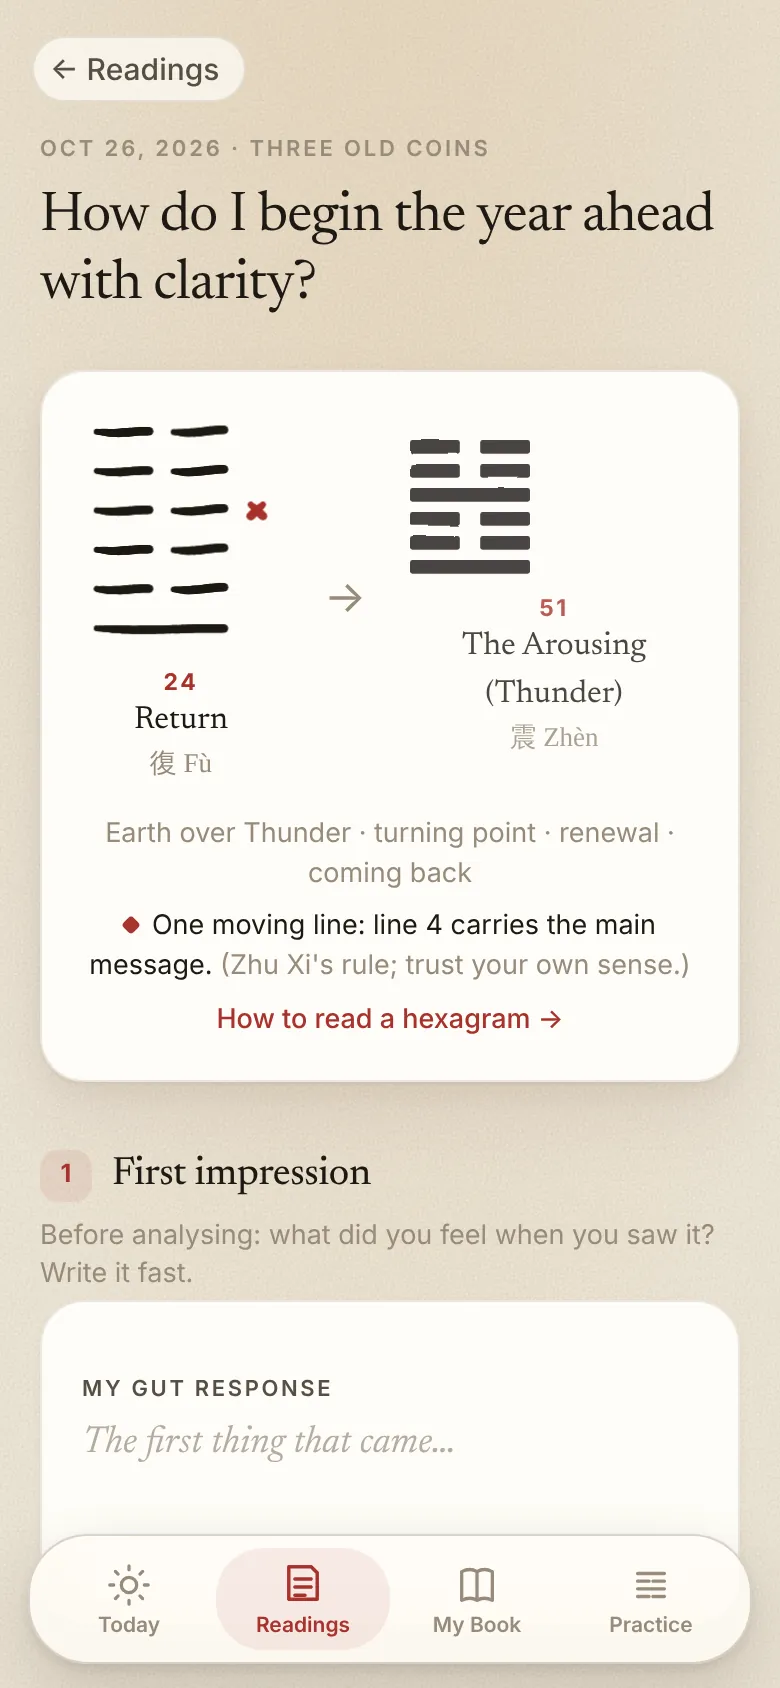
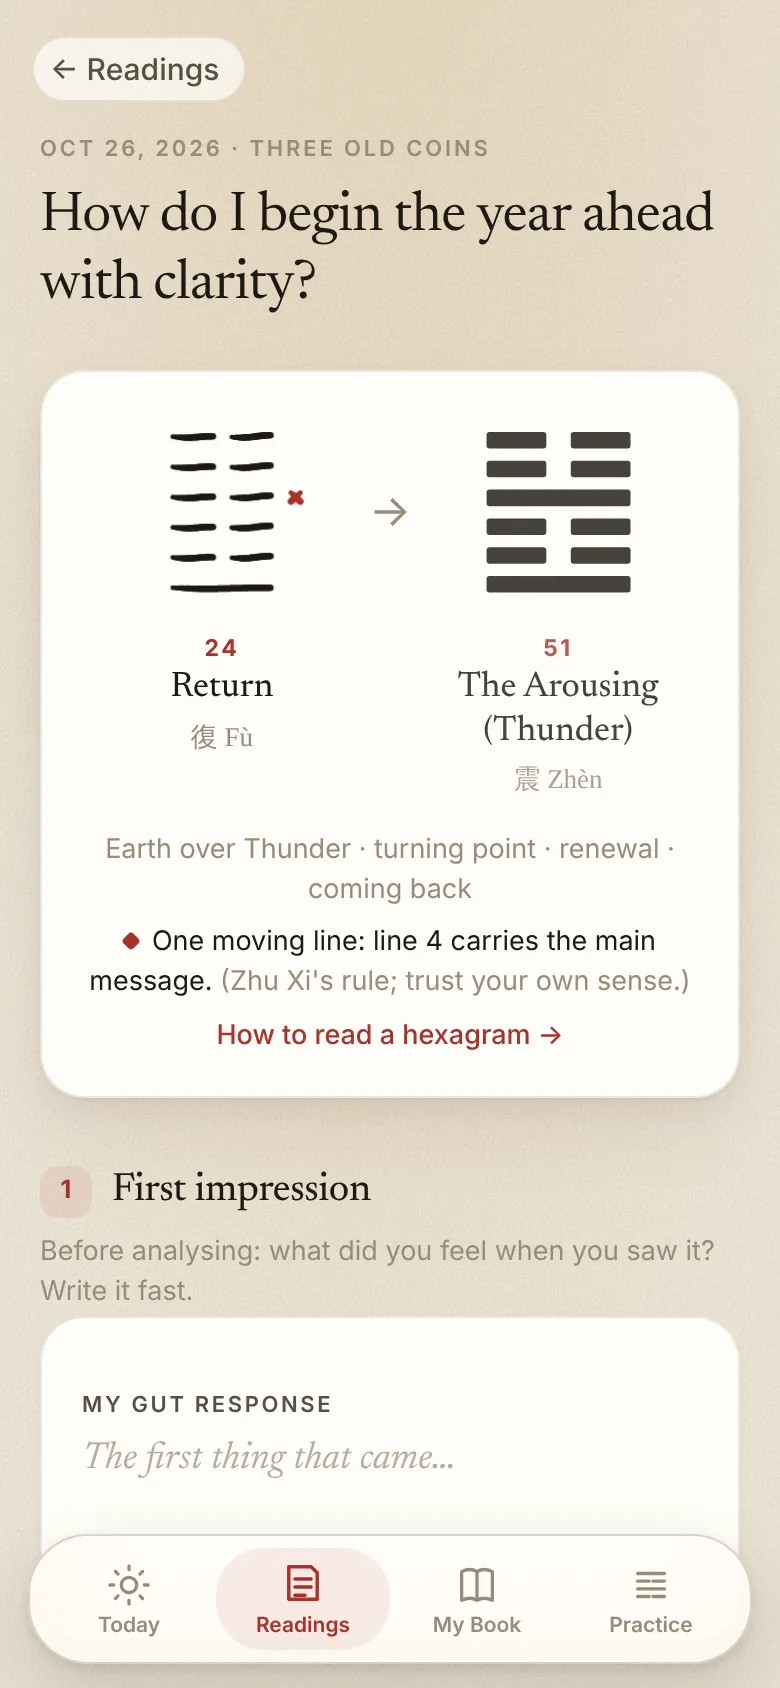
My I Ching: align the reading's figure pair
Present and relating figures now sit in matched 100px boxes in two equal
columns, so both are the same height on the same centre line and their
number/name/Chinese labels start level. Hand-drawn figures are cropped to
the drawn lines and centred on them (margin marks no longer shift them).
Printed figures in the pair drop the brush filter that notched the bars.
Install screenshots refreshed. Version 7.

Claude-Session: https://claude.ai/code/session_01NVqxEtVDYQWcTY4XnBQXzB

Changed region(s): [[0.0308, 0.2464, 0.9538, 0.8934], [0.1231, 0.2464, 0.4, 0.4621], [0.4308, 0.3389, 0.4615, 0.3697]]

diff --git a/apps/i-ching-book/index.html b/apps/i-ching-book/index.html
@@ -262,6 +262,12 @@
              color: var(--seal); font: 700 12.5px var(--sans); margin-right: 10px; flex: none; }
     .sechead { display: flex; align-items: center; margin: 34px 0 8px; }
     .arrow { font-size: 22px; color: var(--muted); }
+    .pair { display: grid; grid-template-columns: minmax(0, 1fr) 28px minmax(0, 1fr); align-items: start; }
+    .pair.single { grid-template-columns: minmax(0, 1fr); }
+    .pfig { display: flex; flex-direction: column; align-items: center; text-align: center; text-decoration: none; gap: 3px; }
+    .pfig .fbox, .pair .arrow { height: 100px; display: flex; align-items: center; justify-content: center; }
+    .pfig .fbox { margin-bottom: 8px; }
+    .pfig .pname { font: 450 18px/1.2 var(--serif); text-wrap: balance; }
     .empty { text-align: center; padding: 44px 20px; }
     .empty .hex { margin: 0 auto 16px; color: var(--line2); }
 
@@ -481,7 +487,7 @@
 
   /* ---------- Storage (on this device only) ---------- */
   // Shown at the bottom of Today and Settings. Keep in step with VERSION in sw.js.
-  const APP_VERSION = "6", APP_DATE = "26 Oct 2026";
+  const APP_VERSION = "7", APP_DATE = "26 Oct 2026";
   const versionTag = () => `<p class="center small muted" style="margin-top:22px;opacity:.75">My I Ching · version ${APP_VERSION} · ${APP_DATE}</p>`;
   const KEY = "my-i-ching-v1";
   const fresh = () => ({ v: 1, book: { title: "My Book of Changes", author: "", preface: "", ch: {} }, readings: [], cards: {}, newDay: {}, days: [], draft: null, settings: { theme: "auto" } });
@@ -747,10 +753,12 @@
   const inkLines = rows => rows.map(r => r.state === "yang" ? (r.moving ? 9 : 7) : r.state === "yin" ? (r.moving ? 6 : 8) : null);
   // Rendered cropped to the ink itself, at a given height, so a hand-drawn figure sits like a printed one.
   function inkSVG(ink, h = 96, cls = "") {
-    const pts = ink.flatMap(s => s.p), pad = 40;
-    const x0 = Math.min(...pts.map(p => p[0] - p[2])) - pad, x1 = Math.max(...pts.map(p => p[0] + p[2])) + pad;
-    const y0 = Math.min(0, ...pts.map(p => p[1] - p[2])), y1 = Math.max(PAD_H, ...pts.map(p => p[1] + p[2]));
-    const w = Math.round(h * (x1 - x0) / (y1 - y0));
+    const all = ink.flatMap(s => s.p), lines = ink.filter(s => !s.z).flatMap(s => s.p), lp = lines.length ? lines : all;
+    const lx0 = Math.min(...lp.map(p => p[0] - p[2] / 2)), lx1 = Math.max(...lp.map(p => p[0] + p[2] / 2));
+    const y0 = Math.min(...lp.map(p => p[1] - p[2] / 2)), y1 = Math.max(...lp.map(p => p[1] + p[2] / 2));
+    // centre on the lines, leaving equal room either side for margin marks (as the printed figures do)
+    const c = (lx0 + lx1) / 2, half = Math.max(c - Math.min(...all.map(p => p[0] - p[2] / 2)), Math.max(...all.map(p => p[0] + p[2] / 2)) - c, (lx1 - lx0) * 0.74);
+    const x0 = c - half, x1 = c + half, w = Math.round(h * (x1 - x0) / (y1 - y0));
     return `<svg class="inkfig ${cls}" viewBox="${x0} ${y0} ${x1 - x0} ${y1 - y0}" width="${w}" height="${h}" aria-hidden="true">${ink.map((s, i) => {
       const col = s.z ? "var(--seal)" : "currentColor";
       if (s.p.length < 2) return `<circle cx="${s.p[0][0]}" cy="${s.p[0][1]}" r="${s.p[0][2] / 2}" fill="${col}" style="--i:${i}"/>`;
@@ -813,6 +821,13 @@
       ${unclear.length ? `<div style="color:var(--seal)">Line ${unclear.join(", ")}: draw across the guide, left to right.</div>` : ""}</div></div>`;
   }
 
+  // Two figures side by side (present → where it's heading) in matched boxes, so they line up.
+  const FIG_W = 72, FIG_H = Math.round(FIG_W * 1.115);
+  function figPair(a, b) {
+    const col = (f, n, extra = "") => `<a class="pfig" href="#/book/${n}" style="${extra}"><div class="fbox">${f}</div><div class="num">${n}</div><div class="pname">${hx(n).name}</div><div class="small muted cjk">${hx(n).zh} ${hx(n).py}</div></a>`;
+    return `<div class="pair${b ? "" : " single"}">${col(a.fig, a.n)}${b ? `<div class="arrow">→</div>${col(b.fig, b.n, "opacity:.82")}` : ""}</div>`;
+  }
+
   /* ---------- A reading ---------- */
   const viewOpen = new Set();
   function emphasis(lines, n, m) {
@@ -839,10 +854,7 @@
       <div class="eyebrow">${dstr(r.at)}${r.method ? " · " + esc(r.method) : ""}</div>
       <textarea class="serif title" style="font-size:28px;line-height:1.22;letter-spacing:-.015em;margin-top:4px" rows="1" data-bind="r:${id}:q" placeholder="My question">${esc(r.q)}</textarea>
       <div class="card" style="margin-top:12px">
-        <div class="row" style="justify-content:center;gap:22px">
-          <a href="#/book/${n}" class="center" style="text-decoration:none">${r.ink ? inkSVG(r.ink, 118, "anim") : hexSVG(r.lines, { w: 78, cls: "ink anim" })}<div class="num" style="margin-top:10px">${n}</div><div class="serif">${h.name}</div><div class="small muted cjk">${h.zh} ${h.py}</div></a>
-          ${m ? `<div class="arrow">→</div><a href="#/book/${m}" class="center" style="text-decoration:none;opacity:.8">${hexSVG(linesOf(m), { w: 60, mark: false, cls: "ink" })}<div class="num" style="margin-top:10px">${m}</div><div class="serif">${hm.name}</div><div class="small muted cjk">${hm.zh} ${hm.py}</div></a>` : ""}
-        </div>
+        ${figPair({ n, fig: r.ink ? inkSVG(r.ink, FIG_H, "anim") : hexSVG(r.lines, { w: FIG_W, cls: "anim" }) }, m && { n: m, fig: hexSVG(linesOf(m), { w: FIG_W }) })}
         <p class="small muted center" style="margin-top:14px">${triPair(h)} · ${h.kw}</p>
         <p class="small center" style="margin:6px 0 0"><span class="seal-dot"></span>${em.text} <span class="muted">(Zhu Xi's rule; trust your own sense.)</span></p>
         <p class="small center" style="margin:6px 0 0"><a class="link" href="#/guide">How to read a hexagram →</a></p>
@@ -1038,11 +1050,7 @@
       <div class="eyebrow">Guided interpretation</div><h1>How to read a hexagram</h1>
       <p class="muted">The same eight steps work for any hexagram. Each step has the method, then a worked example: one reading of Hexagram 3 with its first line moving.</p>
       <div class="card" style="margin-top:14px">
-        <div class="row" style="justify-content:center;gap:22px">
-          <a href="#/book/3/interpret" class="center" style="text-decoration:none">${hexSVG(EX.lines, { w: 70, cls: "ink" })}<div class="num" style="margin-top:8px">${n}</div><div class="serif">${hx(n).name}</div></a>
-          <div class="arrow">→</div>
-          <a href="#/book/8" class="center" style="text-decoration:none;opacity:.8">${hexSVG(linesOf(8), { w: 54, mark: false, cls: "ink" })}<div class="num" style="margin-top:8px">8</div><div class="serif">${hx(8).name}</div></a>
-        </div>
+        ${figPair({ n, fig: hexSVG(EX.lines, { w: FIG_W }) }, { n: 8, fig: hexSVG(linesOf(8), { w: FIG_W }) })}
         <p class="small muted center" style="margin-top:10px">The example: 9 8 8 8 7 8, read bottom to top</p>
       </div>
       ${GUIDE.map(([t, how, ex], i) => `<div class="sechead"><span class="stepn">${i + 1}</span><h3>${t}</h3></div>

diff --git a/apps/i-ching-book/sw.js b/apps/i-ching-book/sw.js
@@ -1,5 +1,5 @@
 // Offline support. Bump VERSION whenever app files change so installed copies update.
-const VERSION = "my-i-ching-v6";
+const VERSION = "my-i-ching-v7";
 // Every file the app needs offline. Add new files here.
 const SHELL = ["./", "./index.html", "./manifest.webmanifest", "./icons/icon-192.png", "./icons/icon-512.png", "./icons/maskable-512.png", "./icons/apple-touch-icon.png", "./fonts/newsreader.woff2", "./fonts/newsreader-italic.woff2"];
 
